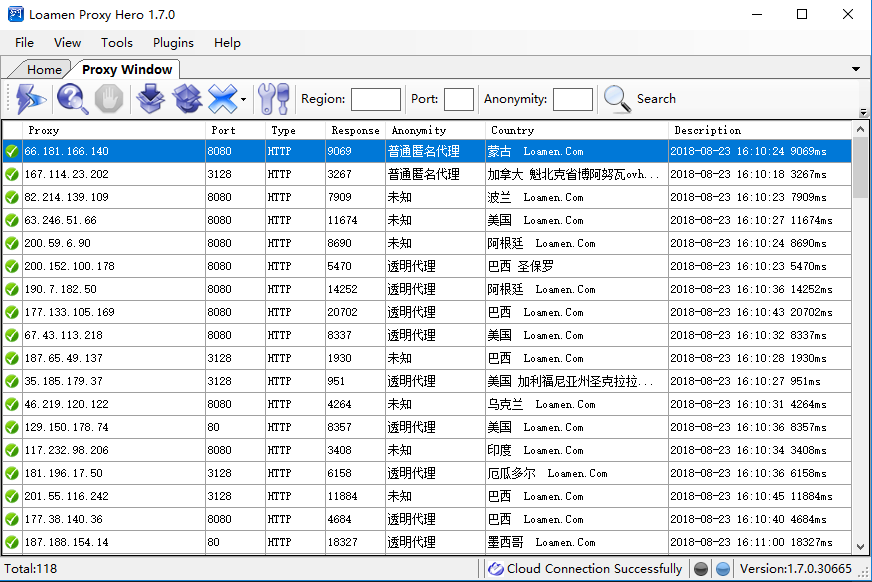
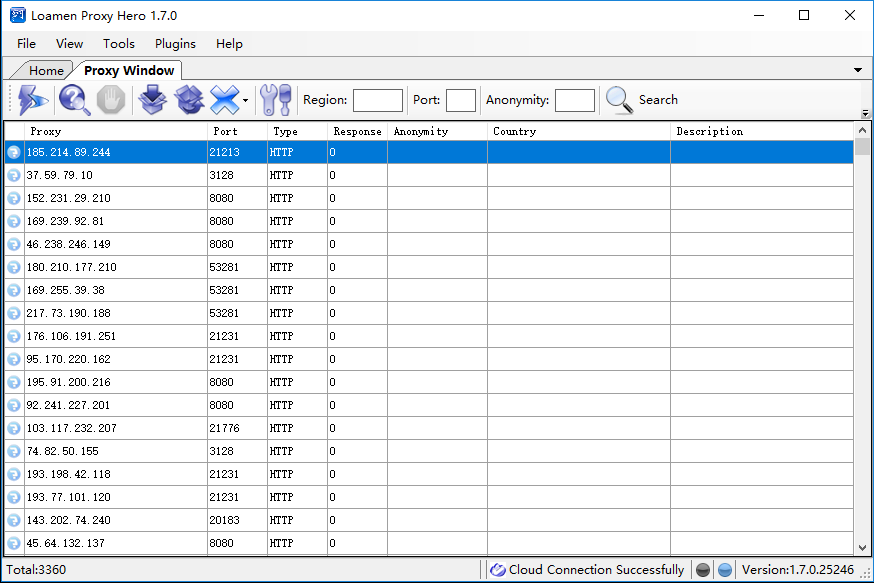
修正采集插件和语言显示问题

diff --git a/src/ProxyHero/Option/Panels/LanguagePanel.cs b/src/ProxyHero/Option/Panels/LanguagePanel.cs
@@ -110,6 +110,11 @@ namespace ProxyHero.Option.Panels
             txtLanguageFile.Text = localSetting.LanguageFileName;
             txtLanguageFile.DataBindings.Add("Text", localSetting, "LanguageFileName",
                                                                  true, DataSourceUpdateMode.OnPropertyChanged);
+
+            lblForLPHVersion.Text = Config.LocalLanguage.LanguageFileForLPHVersion;
+            lblLanguageFileAuthor.Text = Config.LocalLanguage.LanguageFileAuthor;
+            lblLanguageFileVersion.Text = Config.LocalLanguage.LanguageFileVersion;
+            lblLanguageName.Text = Config.LocalLanguage.LanguageName;
         }
 
         private void Download_Click(object sender, EventArgs e)

diff --git a/src/ProxyHero/Program.cs b/src/ProxyHero/Program.cs
@@ -28,8 +28,6 @@ namespace ProxyHero
                 Application.EnableVisualStyles();
                 Application.SetCompatibleTextRenderingDefault(false);
 
-                //Config.BbsHelper = new SnsHelper();
-
                 var formMain = new MainForm();
                 int hdc = formMain.Handle.ToInt32();
                 Application.Run(formMain);
@@ -37,7 +35,7 @@ namespace ProxyHero
             }
             else
             {
-                //ProxyHero.Common.MsgBox.ShowMessage("已经运行了一个实例！");
+                ProxyHero.Common.MsgBox.ShowMessage("已经运行了一个实例！");
             }
         }
     }

diff --git a/src/Plugins/Loamen.PH.Plugin.DownloadProxy/DownloadThread.cs b/src/Plugins/Loamen.PH.Plugin.DownloadProxy/DownloadThread.cs
@@ -215,7 +215,6 @@ namespace Loamen.PH.Plugin.DownloadProxy
                 }
                 sw.Stop();
                 var message = "采集完毕，耗时：" + sw.ElapsedMilliseconds + "毫秒，共" + count + "条";
-                downloader.app.DataBind();
                 downloader.Description = url + message;
                 downloader.app.SetStatusText(message);
             }

diff --git a/src/Plugins/Loamen.PH.Plugin.DownloadProxy/Download.cs b/src/Plugins/Loamen.PH.Plugin.DownloadProxy/Download.cs
@@ -228,6 +228,7 @@ namespace Loamen.PH.Plugin.DownloadProxy
             tsbDownload.Image = Resources.download;
             tsbDownload.Text = "开始采集";
             app.WriteDebug("全部采集完成");
+            app.DataBind();
             ActiveProxyForm();
         }
 
